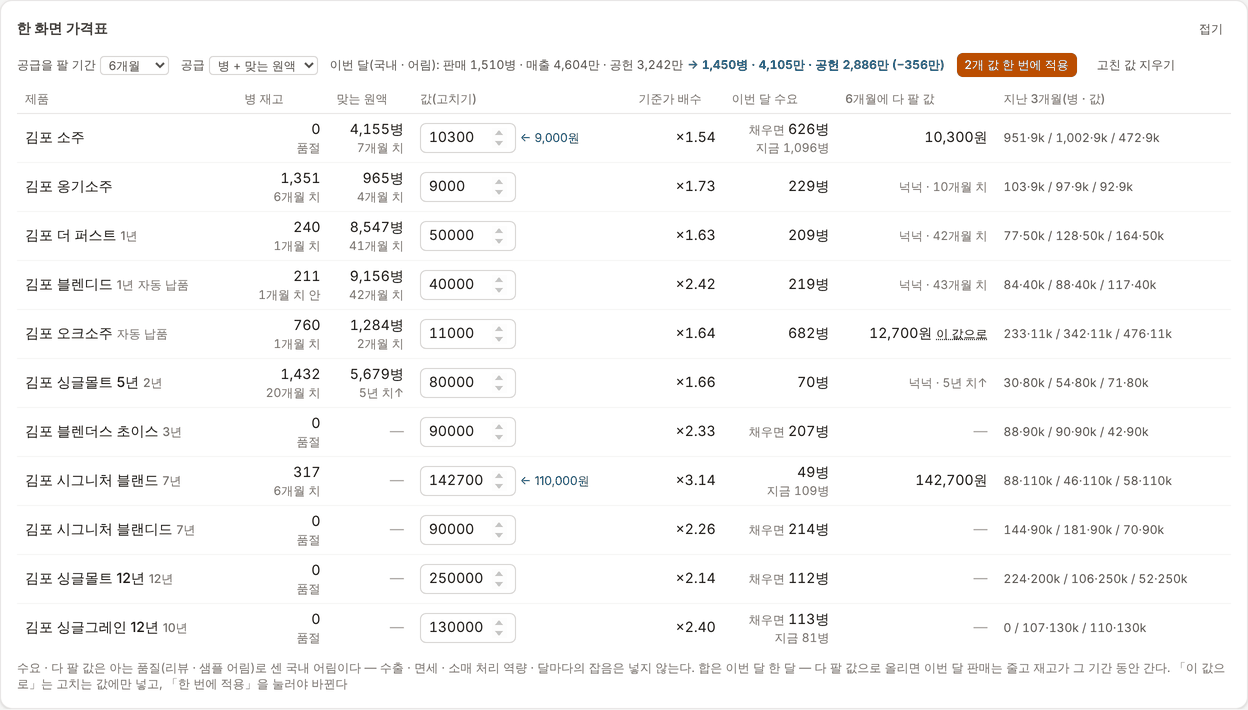
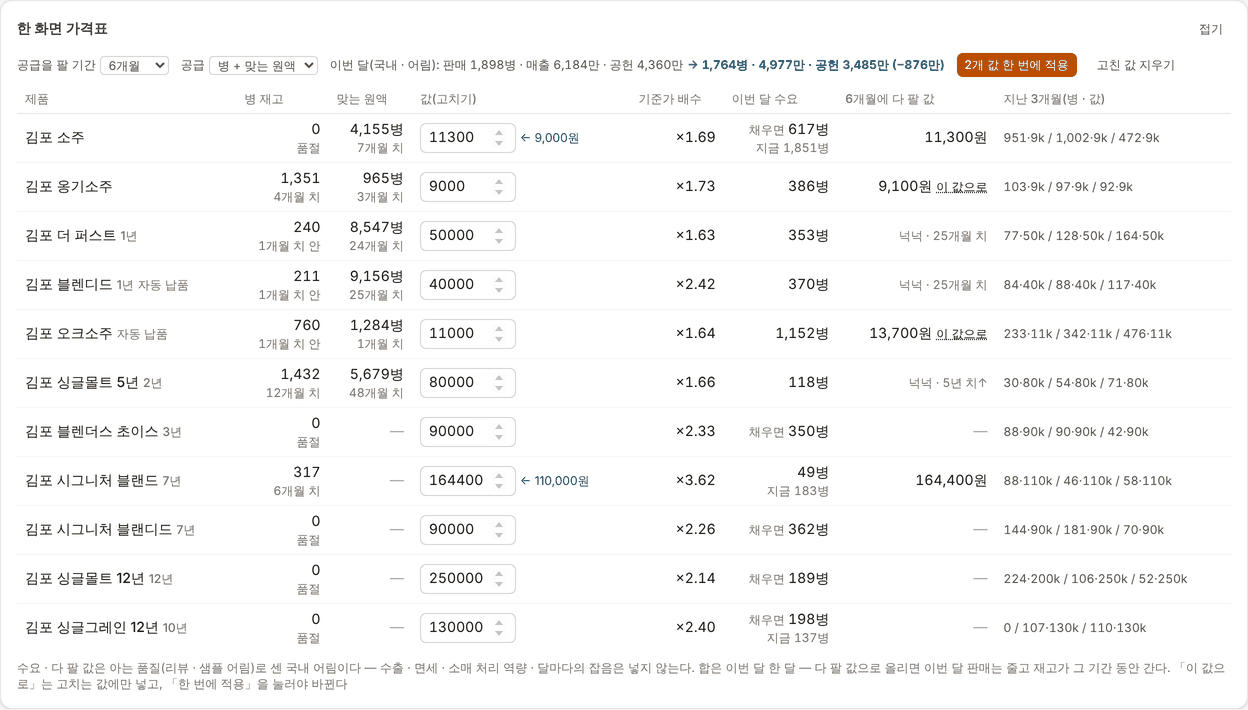
docs(MKT): 가격표 · §6.7 숫자를 최신 main(#1273 시음회 수정 · #1266 뒤) 기준으로 다시 잼 · 153개월 화면 다시 찍음
Claude-Session: https://claude.ai/code/session_01YbnfYY4mepbj6fut6pTAf6

diff --git a/docs/design/mkt-pricing-postrun.md b/docs/design/mkt-pricing-postrun.md
@@ -143,10 +143,11 @@ PM 2026-11-27: 오너가 「권장안대로」로 답했다 — `lastFactor` 수
   - **합:** **이번 달 한 달** 국내 판매 · 매출 · 공헌이다(판매 = min(병 재고, 수요) · 소매 처리 역량 · 잡음 · 수출 · 면세 제외). 다 팔 값으로 올리면 이번 달 합은 준다 — 재고를 그 기간에 나눠 팔기 때문이다. 카드 아래 한 줄로 그렇게 적었다.
 - **I2:** 수요 · 다 팔 값 · 합은 `knownState`로만 센다. 병 수 · 원액 수량 · 결산은 참 상태(보이는 값)다. 상태 · 규칙 · 봇 출력은 그대로다.
 - **10차 153개월 세이브에서 본 것** `[사실 — 화면 · 어림]` (공급 = 병 + 맞는 원액, 6개월 — 화면: [`img/mkt-438-price-table.png`](img/mkt-438-price-table.png), 1,280폭 · 소주 · 시그니처 블랜드에 「이 값으로」를 누른 상태):
-  - 김포 소주: 병 0 · 원액 4,155병. 9,000원에 「채우면」 월 1,096병 → 다 팔 값 **10,300원**이다(T8 손실 · 10차 「소주가 쌌다」와 같은 방향).
-  - 김포 시그니처 블랜드: 317병 · 원액 0. 110,000원 → **142,700원**. 적용하면 이번 달 합은 판매 1,510 → 1,450병 · 공헌 3,242만 → 2,886만(−356만)이 되고, 그 대신 재고가 6개월을 간다.
-  - 김포 오크소주: 11,000원 → **12,700원**.
-  - 나머지 넷(옹기소주 · 더 퍼스트 · 블렌디드 · 싱글몰트 5년)은 「넉넉 · 10 ~ 60개월↑ 치」로 나온다 — 원액이 많다.
+  - (값은 main `2a103d4` 기준이다 — [결정 #440] #1273 시음회 영업 몫 수정으로 이 세이브의 국내 수요가 그 전보다 높게 나온다.)
+  - 김포 소주: 병 0 · 원액 4,155병. 9,000원에 「채우면」 월 1,851병 → 다 팔 값 **11,300원**이다(T8 손실 · 10차 「소주가 쌌다」와 같은 방향).
+  - 김포 시그니처 블랜드: 317병 · 원액 0. 110,000원 → **164,400원**. 소주와 함께 적용하면 이번 달 합은 판매 1,898 → 1,764병 · 공헌 4,360만 → 3,485만(−876만)이 되고(병 0인 소주는 이번 달 합에 안 듦), 그 대신 재고가 6개월을 간다.
+  - 김포 오크소주: 11,000원 → **13,700원**. 김포 옹기소주: 9,000원 → 9,100원(거의 지금 값).
+  - 나머지 셋(더 퍼스트 · 블렌디드 · 싱글몰트 5년)은 「넉넉 · 25 ~ 60개월↑ 치」로 나온다 — 원액이 많다.
 
 ### [제안 P-MKT-53] 한 화면 가격표를 기본 보기로 둘지 (오너 질문 5)
 - **권장 (가): 11차까지 접힌 카드로 둔다. 판 뒤 쓴 횟수 · 시간을 보고 정한다.**
@@ -169,18 +170,18 @@ PM 2026-11-27: 오너가 「권장안대로」로 답했다 — `lastFactor` 수
 ## 6.7 오너께 여쭐 다섯 — 권장안 정리 ([결정 #438] 묶음 ⑤ 준비 · 규칙은 결정 전까지 손대지 않음)
 
 ### 153개월 세이브에서 잰 B · 다 팔 값 `[사실 — 셈]`
-B는 `policyExplain`으로 쟀다(정책을 새로 켬 · `lastFactor` 없음 · 한 달 한 단계 가드 뒤 다음 값). 다 팔 값은 가격표 셈이다(공급 = 병 + 맞는 원액). 괄호 안은 기준가 배수다.
+B는 `policyExplain`으로 쟀다(정책을 새로 켬 · `lastFactor` 없음 · 한 달 한 단계 가드 뒤 다음 값). 다 팔 값은 가격표 셈이다(공급 = 병 + 맞는 원액). 괄호 안은 기준가 배수다. main `2a103d4`(#1273 시음회 수정 · #1266 `lastFactor` 수리 뒤) 기준이다.
 
 | 제품 | 병 · 원액 | 오너 값 | B 다음 값 | 다 팔 값 6 · 12 · 24개월 |
 |---|---|---|---|---|
-| 김포 소주 | 0 · 4,155 | 9,000(×1.34) | 병 0이라 B가 돌지 않음 | 10,300(×1.54) · 11,500 · 12,500 |
-| 김포 오크소주 | 760 · 1,284 | 11,000(×1.64) | 11,700(×1.75) | 12,700(×1.90) · 13,800(×2.06) · 14,900(×2.22) |
-| 김포 시그니처 블랜드 | 317 · 0 | 110,000(×2.42) | **90,800(×2.00 — 격자 끝)** | **142,700(×3.14)** · 169,100 · 197,800 |
-| 김포 블렌디드 | 211 · 9,156 | 40,000(×2.42) | 33,000(×2.00) | 넉넉(43개월 치) |
-| 김포 싱글몰트 5년 | 1,432 · 5,679 | 80,000(×1.66) | 75,200(목표 65,100) | 넉넉(100개월↑ 치) |
+| 김포 소주 | 0 · 4,155 | 9,000(×1.34) | 병 0이라 B가 돌지 않음 | 11,300(×1.69) · 12,300 · 13,300 |
+| 김포 오크소주 | 760 · 1,284 | 11,000(×1.64) | 11,700(×1.75) | 13,700(×2.04) · 14,700(×2.19) · 15,600(×2.33) |
+| 김포 시그니처 블랜드 | 317 · 0 | 110,000(×2.42) | **90,800(×2.00 — 격자 끝)** | **164,400(×3.62)** · 190,800 · 219,500 |
+| 김포 블렌디드 | 211 · 9,156 | 40,000(×2.42) | 33,000(×2.00) | 넉넉(25개월 치) |
+| 김포 싱글몰트 5년 | 1,432 · 5,679 | 80,000(×1.66) | 75,200(목표 65,100) | 넉넉(60개월↑ 치) |
 
 - **시그니처 블랜드는 B와 오너가 반대 방향이다.**
-  - 원액 0 · 병 317개인 7년 블렌드다. B(3개월 이익 · 격자 ×0.6 ~ 2)는 값을 **내린다**. 6개월에 나눠 팔 값은 ×3.14다.
+  - 원액 0 · 병 317개인 7년 블렌드다. B(3개월 이익 · 격자 ×0.6 ~ 2)는 값을 **내린다**. 6개월에 나눠 팔 값은 ×3.62다.
   - 오너가 손으로 하던 「원액이 없으니 값을 올려 소화를 늦춘다」를 B는 못 한다. 격자 끝(×2) 탓도 있고, B가 원액을 보지 않는 탓도 있다 `[추정 — 둘 중 어느 쪽이 큰지는 격자만 넓혀 재 봐야 안다]`.
 - **원액이 넉넉한 제품(블렌디드 · 5년)은 B와 다 팔 값이 같은 방향이다** — 둘 다 「내린다」.
 
@@ -194,7 +195,7 @@ B는 `policyExplain`으로 쟀다(정책을 새로 켬 · `lastFactor` 없음 ·
 | 5 | 가격표 기본 보기 | **(가) 11차까지 접힘 → 판 뒤 측정** ([제안 P-MKT-53]) | (나) 기본 펼침 · (다) 탭 | 그대로 | §6.6 위 |
 
 ### D를 넣을 때 정할 것(질문 4가 「더한다」이면)
-- **기간 H:** 제품마다 고르고, 기본값은 **12개월**로 한다 `[추정]`. 6개월은 소주처럼 원액이 계속 들어오는 제품에서 너무 높게 나온다(10,300 → 다음 달 원액이 늘면 다시 내려감 → 흔들림). 오너가 「캐스크 재고에 따라」라고 했으니 더 긴 쪽이 맞을 것이다.
+- **기간 H:** 제품마다 고르고, 기본값은 **12개월**로 한다 `[추정]`. 6개월은 소주처럼 원액이 계속 들어오는 제품에서 너무 높게 나온다(11,300 → 다음 달 원액이 늘면 다시 내려감 → 흔들림). 오너가 「캐스크 재고에 따라」라고 했으니 더 긴 쪽이 맞을 것이다.
 - **아래로 찾기:** 지금 `sellThroughPrice`는 지금 값에서 **위로만** 찾는다(넉넉이면 null). D는 내려가는 쪽도 찾아야 한다. `market.ts`에 아래로 찾는 길을 더한다. 화면 「다 팔 값」 줄 · 가격표도 같은 함수로 「이 값으로 내리면 다 판다」를 보일 수 있게 된다.
 - **바닥:** 병당 공헌 0 아래로는 내리지 않는다(원가 바닥). 위쪽은 격자 상한과 따로 둔다(D의 목적이 소화 속도라서).
 - **가드:** B와 같은 「한 달 한 단계」(×0.1)를 쓴다. 수리 ①(`lastFactor`) 뒤에 넣는다.
